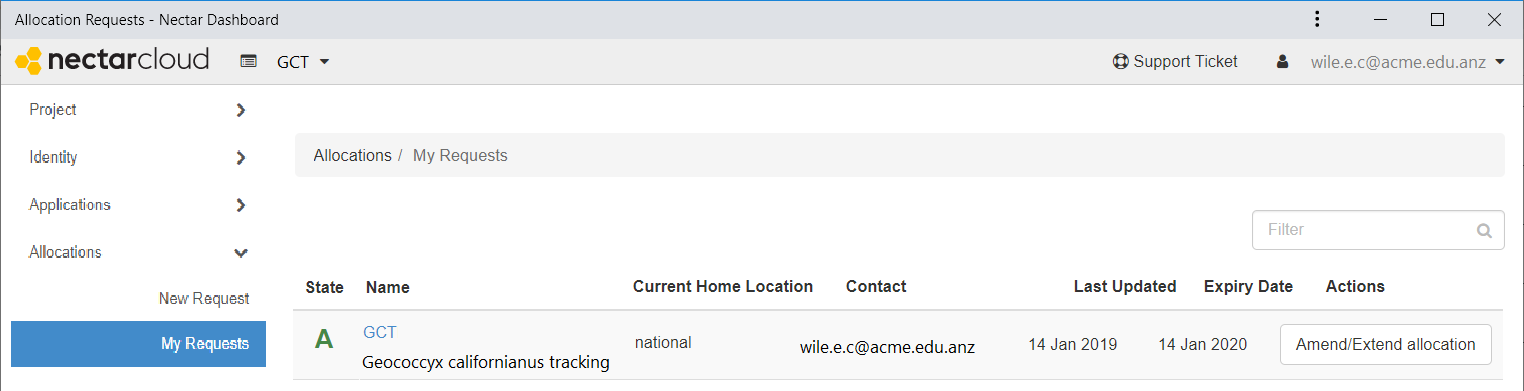
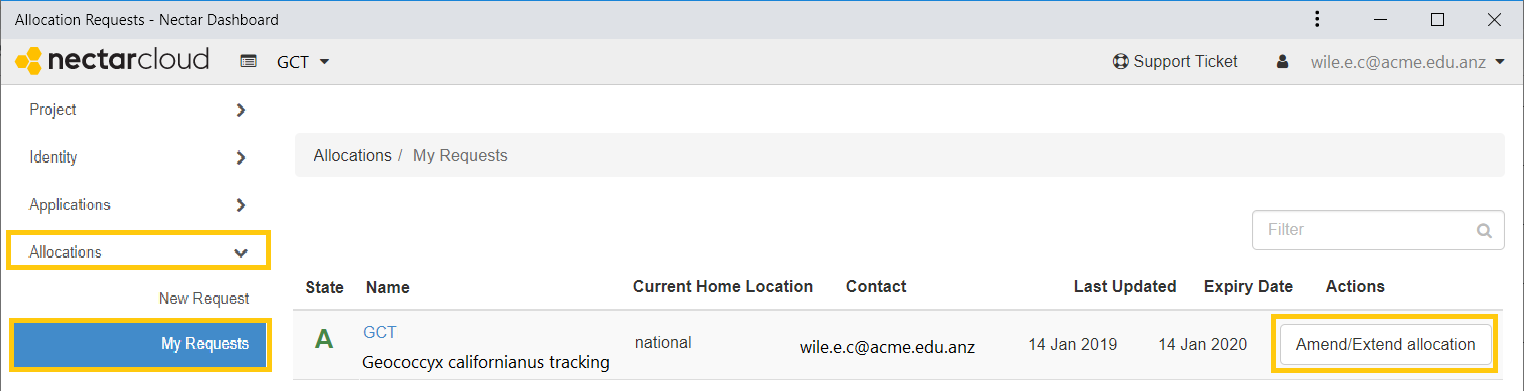
fix minor omissions/edits

Changed region(s): [[0.0, 0.798, 0.185, 0.9514], [0.8327, 0.798, 0.9869, 0.9514], [0.0, 0.5831, 0.185, 0.7059]]

diff --git a/ardc/non-technical/allocation-management/allocation-management.md b/ardc/non-technical/allocation-management/allocation-management.md
@@ -27,10 +27,6 @@ negative
 : **Antarctica and Amazon (the rainforest)**
 The Expiry Bot diligently executes the expiry process. It does not know of your field trips to Antarctica or the Amazon rainforest, or any other places where wifi-access or your attention to emails may be limited. Make sure you have arranged extensions for your projects if you happen to be away for extended periods or delegate your project manager role to another user. 
 
-### A diagram
-
-![Overview diagram](images/requests-projects.svg)
-
 ### What you'll learn
 
 - Understanding *accounts*, *allocations*, *projects*, *resources* and *quota*
@@ -42,7 +38,19 @@ The Expiry Bot diligently executes the expiry process. It does not know of your 
 
 - A Nectar Research Cloud account, or access to the AAF to get one. 
 
+
+
+## A diagram
+
+Duration: 2:00
+
+![Overview diagram](images/requests-projects.svg)
+
+### 
+
 ## Accounts and Personal Trial (pt) projects
+
+Duration: 5:00
 
 The first time you log on to the dashboard, Nectar creates two things your *Account* and a *Personal Trial (pt)* project. Your account is tied to your email address, while your personal trial is a project named pt-*xyz* (where *xyz* is a number). The two are closely related, but they are not the same thing.
 
@@ -66,6 +74,8 @@ In other ways your pt-project is different from full-fledged projects. It has *l
 After you have used all the compute time allocated to you in your pt-project it will expire. If you have built up anything valuable in your *pt-project* you can request that we *Convert you trial project* when you submit a request for a project allocation. Note that the Expiry Bot will start removing instances from your pt-project shortly after pt-project expiration. To retain them by using a trial project conversion, you need to request a project timely. More detail in the section Project Trial in our article on [Expiry and Renewal](https://support.ehelp.edu.au/support/solutions/articles/6000171494-project-allocation-expiry-and-renewal) 
 
 ## Allocation Process and Projects
+
+Duration: 5:00
 
 To get a full-fledged project allocated to you you need to apply for an allocation using the`Allocation | New Request` form available from your Nectar dashboard. Once approved you will be informed by email and you will be the *project manager* of your new project. 
 
@@ -93,16 +103,22 @@ positive
 
 ## Amending and Extending
 
+Duration: 2:00
+
 To change the resources allocated to your project or to extend the duration of your project you or another project manager can submit an Amend/Extend request. 
 
 To submit an Amend/Extend request follow these steps.
 
-1. 	On your Nectar Dashboard, Navigate to the `Allocations | My Requests` page
-2. 
+1. On your Nectar Dashboard, Navigate to the `Allocations | My Requests` page
+2. Click the `Amend/Extend allocation` button.
+
+You will go to the Allocation Request form, with some of your project's details already filled in. From time to time the Allocation Request form changes, so please read or reread the form when filling in the requested details. 
 
 ![](images/amend-extend-allocation.png)
 
 ## Project Expiry
+
+Duration: 2:00
 
 Project allocations on the Nectar Research Cloud are created for a fixed term to help ensure fair access to resources for all users of the cloud. When a project allocation nears the end, project managers and members are notified via email. 
 
@@ -113,6 +129,8 @@ negative
 Familiarize yourself with the expiry rules: the *Timeline*, *Action by Nectar* and the *Options for Users*. The last step of expiry -after a generous grace period- is that Nectar deletes the project's resources. Yes. *Deletes.*  [Expiry and Renewal](https://support.ehelp.edu.au/support/solutions/articles/6000171494-project-allocation-expiry-and-renewal) article here. 
 
 ## Share or delegate the *project-manager* role
+
+Duration: 4:00
 
 If you need to ensure that your project doesn't expire, you can also share the *project-manager* role with other users in your project. All users in the project that have the *project-manager* role will be notified of the stages of expiry by the Expiry Bot, and they have access to the `Amend/Extend allocation` button for the project via the My Requests page. 
 
@@ -141,6 +159,8 @@ To assign the *project-manager* role to an existing user in your project, you or
 Note that Nectar will only accept requests for assigning the project-manager *from existing project-managers* or from the Chief Investigator as listed in the project allocation request. 
 
 ## Next Steps
+
+Duration: 1:00
 
 In this tutorial you've learnt about Allocation Management. You've learnt what sets *pt-projects* apart from *projects*. You've learnt how to avoid *data-loss-by-expiry* by Amending/Extending your project and you've learnt how to share/delegate your project-manager role with other members of your project. 
 
